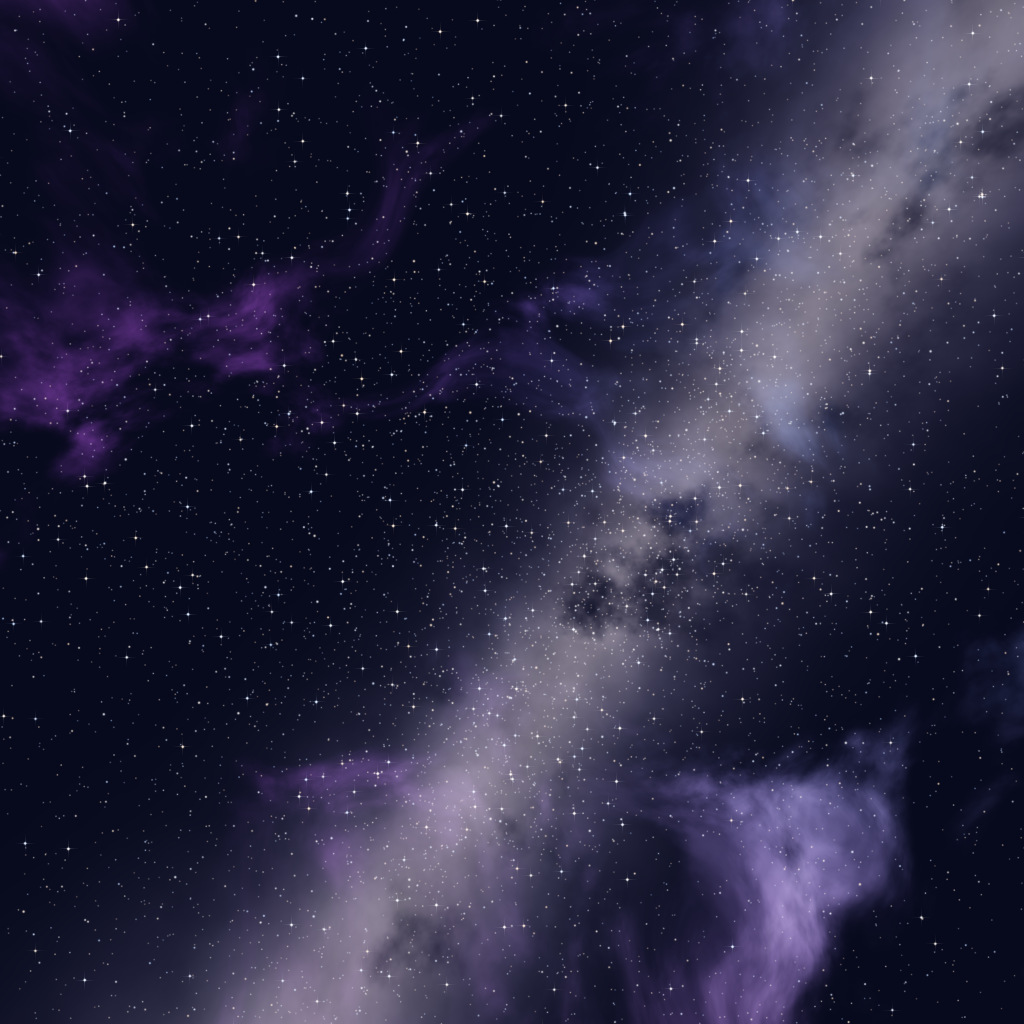
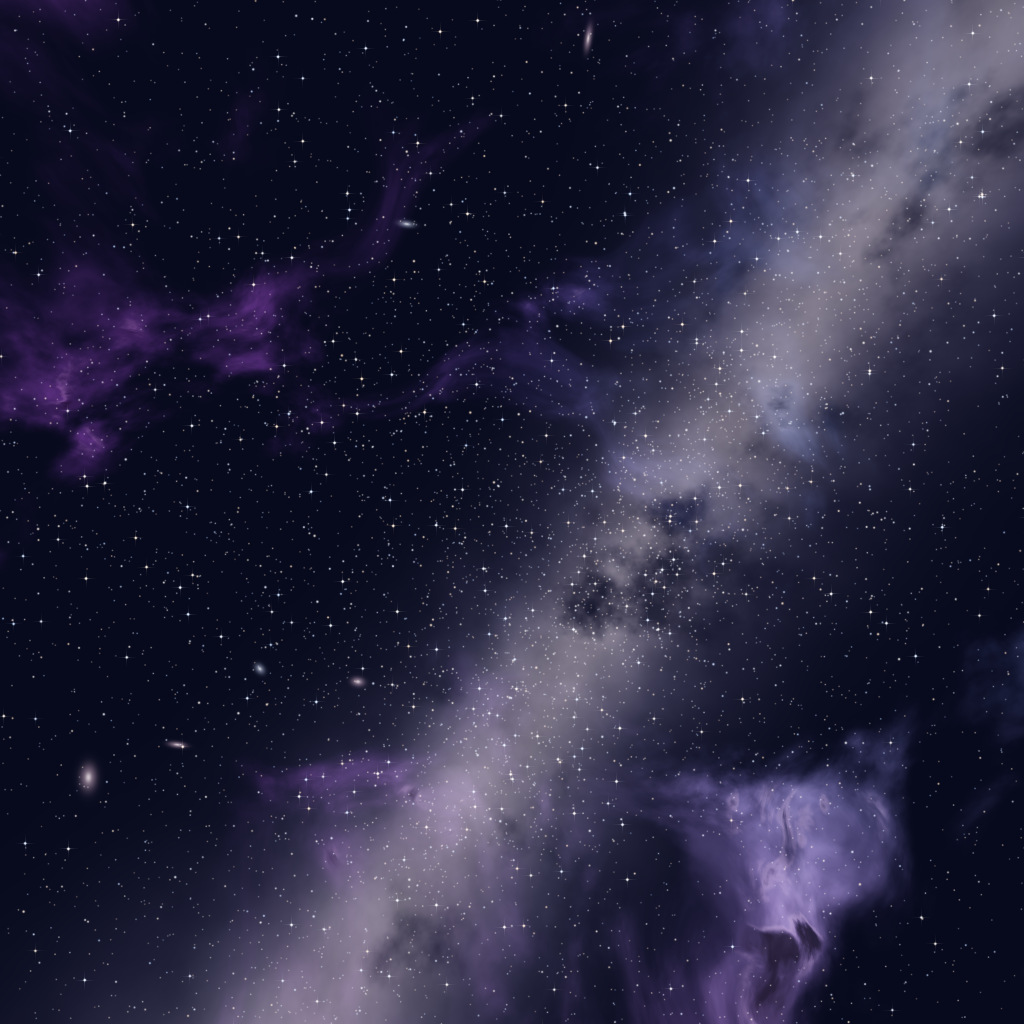
Cielo del espacio sin cortes: caras izquierda/derecha cruzadas y arriba/abajo giradas como las pone Roblox (comprobado en Studio), cielo con más capas y estrellas cercanas con paralaje

diff --git a/roblox/scripts/espacio/gen_espacio_v122.py b/roblox/scripts/espacio/gen_espacio_v122.py
@@ -80,6 +80,34 @@ def nebula_color(d):
     lanes = smooth(0.52, 0.76, fbm(p, 6, 3.2, seed=157)) * band
     img += (band * (0.3 + 0.7 * dust) * (1 - 0.75 * lanes))[..., None] * col(150, 140, 190) * 0.55
     img += (core * (0.4 + 0.6 * dust) * (1 - lanes))[..., None] * col(255, 225, 200) * 0.38
+    # (14-11-2026, «que parezca 3D, con profundidad») Capas: nubes de polvo OSCURO por delante de las
+    # nebulosas (siluetas recortadas: lo que tapa parece estar más cerca) con un borde iluminado, y galaxias
+    # lejanas pequeñas (manchitas elípticas con núcleo) que dan escala al fondo.
+    veil_n = fbm(warp(p, 1.4, 2.2, 29), 6, 3.0, seed=171)
+    veil = smooth(0.58, 0.72, veil_n) * smooth(0.25, 0.6, a)
+    rim = (smooth(0.54, 0.6, veil_n) - smooth(0.6, 0.66, veil_n)).clip(0, 1) * smooth(0.25, 0.6, a)
+    img *= (1 - 0.72 * veil)[..., None]
+    img += rim[..., None] * col(255, 190, 230) * 0.18
+    rng = np.random.default_rng(909)
+    for _ in range(26):
+        g = rng.normal(size=3).astype(np.float32)
+        g /= np.linalg.norm(g)
+        size = rng.uniform(0.006, 0.016)
+        cosang = d @ g
+        # ejes de la elipse en el plano tangente
+        t1 = np.cross(g, np.array([0.3, 1.0, 0.2], np.float32))
+        t1 /= np.linalg.norm(t1)
+        t2 = np.cross(g, t1)
+        ang = rng.uniform(0, np.pi)
+        a1 = t1 * np.cos(ang) + t2 * np.sin(ang)
+        a2 = np.cross(g, a1)
+        u = d @ a1
+        w = d @ a2
+        r2 = (u / size) ** 2 + (w / (size * rng.uniform(0.3, 0.7))) ** 2
+        glow = np.exp(-r2) * (cosang > 0.9)
+        tint = col(*[int(x) for x in rng.choice([[255, 225, 190], [200, 215, 255], [255, 200, 230]])])
+        img += (glow * 0.55)[..., None] * tint
+        img += (np.exp(-r2 * 9) * (cosang > 0.9) * 0.6)[..., None] * col(255, 250, 235)
     return img
 
 

diff --git a/roblox/scripts/espacio/gen.py b/roblox/scripts/espacio/gen.py
@@ -164,8 +164,13 @@ FACES = {
     "bk": ((0, 0, 1), (-1, 0, 0), (0, 1, 0)),
     "lf": ((-1, 0, 0), (0, 0, -1), (0, 1, 0)),
     "rt": ((1, 0, 0), (0, 0, 1), (0, 1, 0)),
-    "up": ((0, 1, 0), (1, 0, 0), (0, 0, 1)),
-    "dn": ((0, -1, 0), (1, 0, 0), (0, 0, -1)),
+    # (14-11-2026, comprobado en Studio con una imagen reconocible en cada cara) Roblox pinta la cara de
+    # arriba con la parte de arriba de la imagen hacia +X y su derecha hacia −Z, y la de abajo con la parte
+    # de arriba hacia −X y la derecha hacia −Z. Con la convención de antes se veían cortes diagonales al
+    # mirar arriba o abajo. (Los laterales: el archivo «lf» va en SkyboxRt y «rt» en SkyboxLf:
+    # shared/Cosmos/EspacioLook.SkyFaces.)
+    "up": ((0, 1, 0), (0, 0, -1), (1, 0, 0)),
+    "dn": ((0, -1, 0), (0, 0, -1), (-1, 0, 0)),
 }
 FACE_FLIP = {}  # p. ej. {"up": "rot90"} si hiciera falta
 
